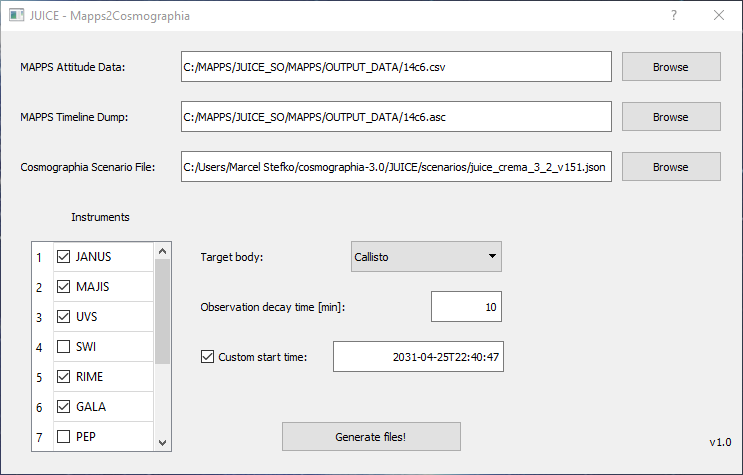
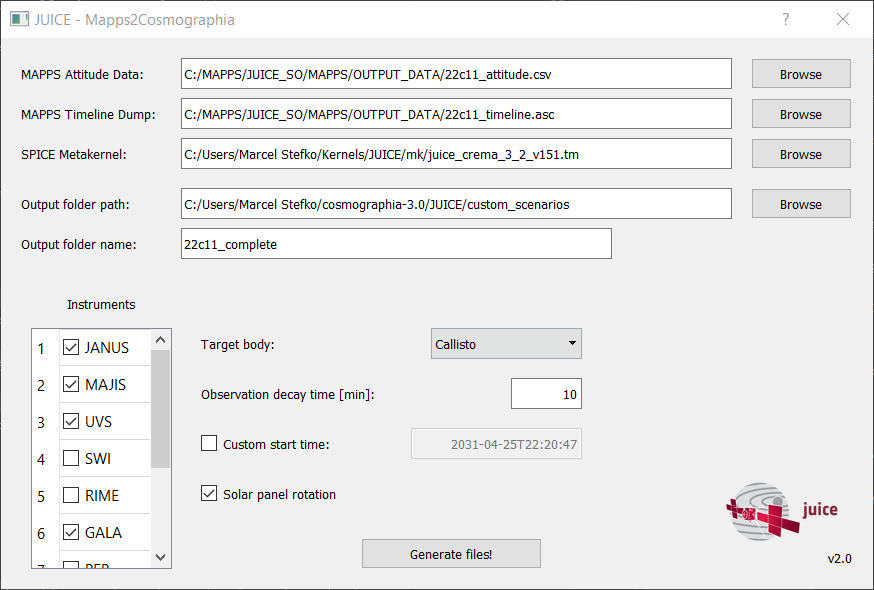
Update README.md for version 2.0

diff --git a/README.md b/README.md
@@ -5,23 +5,21 @@ This plugin allows you to import JUICE MAPPS data (attitude + instrument operati
 ## Preparing Cosmographia
 In short, you need to set up [Spice-enhanced Cosmographia](https://www.cosmos.esa.int/web/spice/cosmographia),
 and correctly install [JUICE datafiles](ftp://spiftp.esac.esa.int/cosmographia/missions/) so that you can run
-the "stock" scenarios included in the `<cosmographia_root>/JUICE/scenarios/` folder.
+the "stock" scenarios included in the `../JUICE/scenarios/` folder.
 
 See Marc Costa's [SETUP GUIDE](ftp://spiftp.esac.esa.int/cosmographia/missions/aareadme.txt) for detailed instructions.
-You need to follow all steps in the 'A very short introduction to SPICE-Enhanced Cosmographia Setup' section,
-so that following conditions are met:
- 1. [JUICE datafiles](ftp://spiftp.esac.esa.int/cosmographia/missions/) are placed under `<cosmographia_root>\JUICE` folder, i.e. e.g. `C:\Users\Marcel Stefko\cosmographia-3.0\JUICE\scenarios` is a valid file path.
- 2. [JUICE kernels](ftp://spiftp.esac.esa.int/data/SPICE/JUICE/misc/release_notes/juice_ftp_160.txt) are downloaded, with `PATH_VALUES` set correctly in each metakernel.
- 3. `spice_JUICE_crema_xxx.json` files in `<cosmographia_root>/JUICE/config/` folder are modified so that the 'spiceKernels' entries point to the corresponding metakernels
- from point 2. Backslashes in Windows-style filepaths **must** be escaped, e.g. `C:\\Users\\Marcel Stefko\\SPICE\\kernels\\mk\\juice_crema_3_2_v151.tm`.
+You need to follow steps in the 'A very short introduction to SPICE-Enhanced Cosmographia Setup' section,
+so that following two conditions are met:
+ 1. You can run all scenarios in `../JUICE/scenarios/` folder using the Cosmographia `Open Catalog...` functionality.
+ 2. (Optional) You can start Cosmographia by typing `Cosmographia` in your system's command-line terminal.
 
 ## Installation
 ### As standalone program (EXPERIMENTAL)
- 1. Unzip `Mapps2Cosmographia.zip` into any directory.
+ 1. Unzip `Mapps2Cosmographia_v2.0.zip` into any directory.
  2. Run `Mapps2Cosmographia.exe`.
 
 ### As python script
-This plugin requires `python3` with packages `pyqt5`, `jdcal`, and `simplejson` installed.
+This plugin requires `python3` with packages `spiceypy`, `pyqt5`, `jdcal`, and `simplejson` installed.
 
 If you use Anaconda, you can install using these steps:
 
@@ -33,7 +31,7 @@ If you use Anaconda, you can install using these steps:
  
 ![](doc/img/installation.png)
 
-**Fig 1: Correct installation procedure.**
+**Fig 1: Correct Anaconda installation procedure.**
 
 For subsequent runs, you need to `activate m2c` environment every time you restart Anaconda prompt.
 
@@ -42,7 +40,7 @@ For subsequent runs, you need to `activate m2c` environment every time you resta
 
 ![](doc/img/plugin_gui.png)
 
-**Fig 5: Main plugin GUI.**
+**Fig 2: Main plugin GUI.**
 
 The program requires input of 3 data files:
 
@@ -52,12 +50,13 @@ required quaternion data for generating a new CK kernel.
  2. `MAPPS Timeline Dump`: This is a MAPPS `.asc` file created using
 `MAPPS -> Data -> Dump Timeline Data...`. It contains information about instrument
 activity.
- 3. `Cosmographia Scenario File`: This is a `.json` file that you would normally use to load
-a JUICE Cosmographia scenario without any observations (i.e. only to display JUICE's trajectory).
-This file should reside in `<cosmographia_root>/JUICE/scenarios/` folder if you followed installation
-instructions correctly.
+ 3. `SPICE Metakernel`: This is a `.tm` or `.mk` metakernel that completely describes
+ a base JUICE trajectory, e.g. `C:\SPICE\Kernels\JUICE\mk\juice_crema_3_2_v151.tm`
 
- 
+Furthermore, you need to specify an output folder for all generated scenarios,
+and a name for the particular scenario being generated.
+
+
  - You can customize which instrument operations will be displayed using the checkboxes.
  - `Target body` specifies which body is used to display instrument ground tracks. For moon flybys,
 use the appropriate moon.
@@ -66,23 +65,24 @@ use the appropriate moon.
  is still displayed, after the observation's end time.
  - `Custom start time` allows manually specifying the simulation time at which the scenario is launched.
  The timestamp must be in ISO8601 format without the ending `Z`, i.e. `yyyy-mm-ddTHH:MM:SS`
+ - `Solar panel rotation` enables functionality where solar panel CK kernels are computed using
+ SPICE, and displayed in the scenario.
 
-To generate a scenario, click `Generate files!`. A `<cosmographia_root>/JUICE/mapps_output_yyyymmdd_HHMMSS/`
+To generate a scenario, click `Generate files!`. The specified output
 folder will be created. Inside this folder all necessary files are stored. The original
 files are not modified by this script.
 
 To launch this scenario, there are three options:
 
  1. Launch immediately by selecting `Launch scenario` option in the dialog that appears after
- the scenario is generated (this runs the `run_scenario.bat` (Windows) or `run_scenario.sh` (Unix) script in the output folder). This option will only
- appear on Windows if all data files are correctly structured within the `<cosmographia_root>/JUICE` folder.
+ the scenario is generated (this runs the `run_scenario.bat` (Windows) or `run_scenario.sh` (Unix) script in the output folder).
  2. Run the `run_scenario.bat` (Windows) or `run_scenario.sh` (Unix) script in the output folder manually. This automatically finds JUICE and sets time of first observation.
- 3. Launch Cosmographia, go to `Cosmographia -> File -> Open Catalog...`, and open the `<cosmographia_root/JUICE/mapps_output_yyyymmdd_HHMMSS/LOAD_SCENARIO.json`
+ 3. Launch Cosmographia, go to `Cosmographia -> File -> Open Catalog...`, and open the `<output_folder>/LOAD_SCENARIO.json`
 file. You need to set the time of interest and find JUICE manually, using Cosmographia's controls.
 
 ![](doc/img/cosmographia.png)
 
-**Fig 6: Cosmographia with running generated scenario.**
+**Fig 3: Cosmographia with running generated scenario.**
 
 ## Configuration
 Some settings can be adjusted in `config_static.ini` in the `[itl]` section (make sure you adhere to the JSON format specification, otherwise errors will occur):
@@ -98,7 +98,7 @@ sensor FOVs and ground tracks.
 ## Troubleshooting
 - Script runs fine, but Cosmographia displays `Error loading kernel: <kernel path>...`?
     - Make sure that the `PATH_VALUES` variable in the given kernel is correctly set.
-- The script doesn't start up correctly.
+- The program doesn't start up correctly.
     - Check the `config_static.ini` and `config_temp.ini` files, if their content seems corrupted, replace them with original ones from the repository.
 
 ## Acknowledgements
